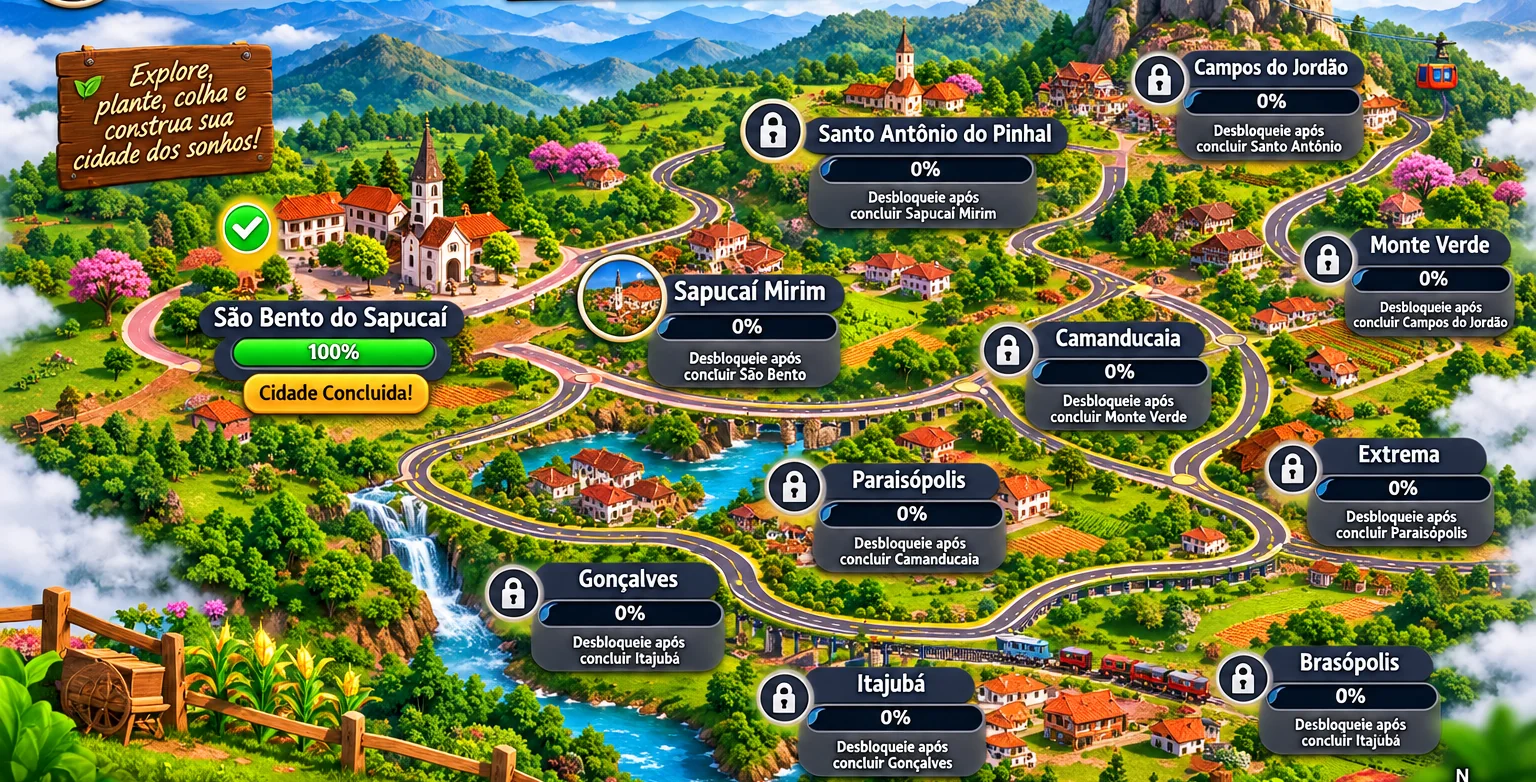
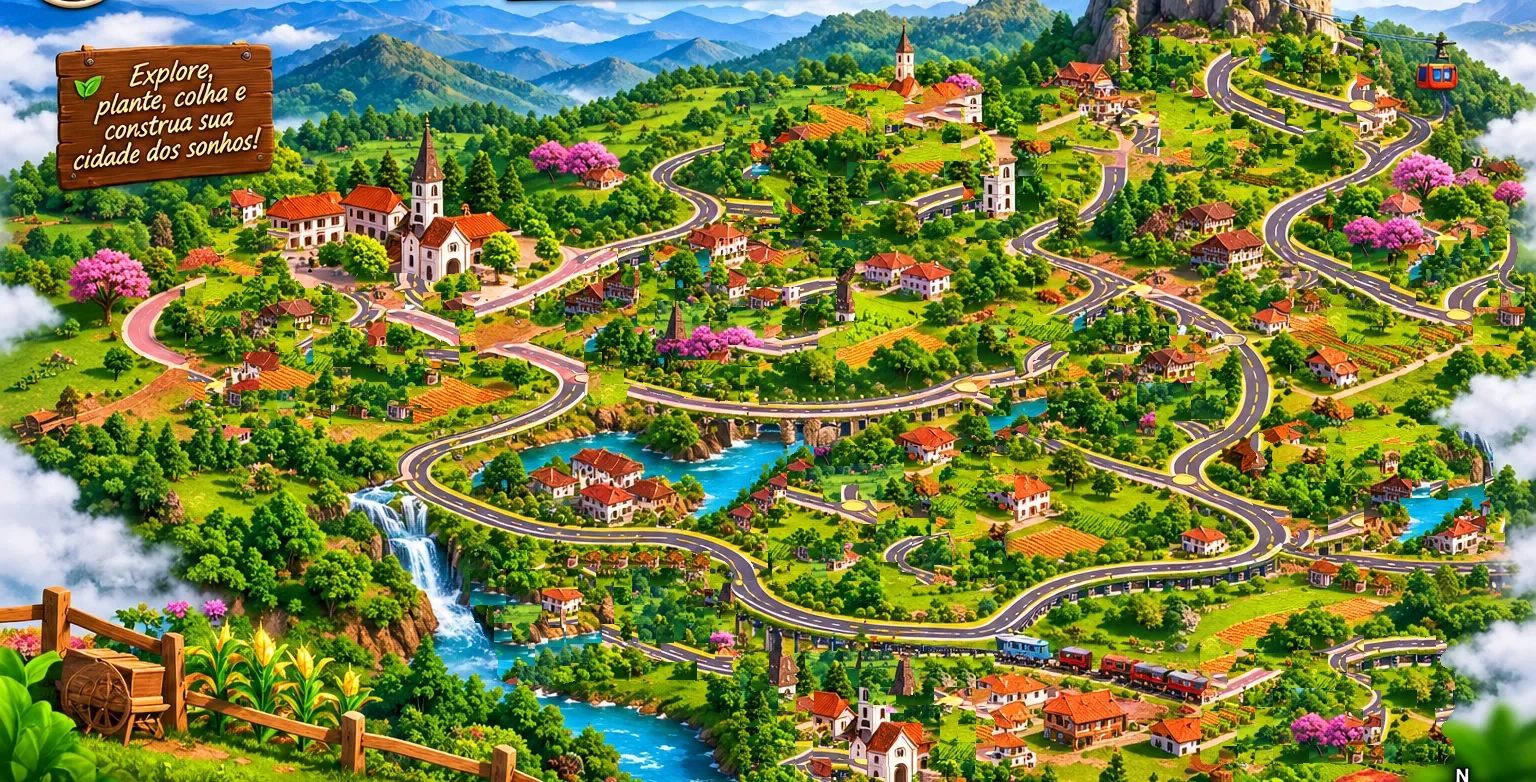
Mapa da Mantiqueira limpo, com etiquetas pequenas e navegação por cidade
- Nomes pintados na ilustração apagados (preenchidos com a paisagem ao redor)
- Etiquetas pequenas que ficam do mesmo tamanho na tela em qualquer zoom
- Afastado, as etiquetas que não cabem viram só o ícone
- Barra ‹ cidade › para ir de cidade em cidade, com o progresso
- Testes: 237 passando

Claude-Session: https://claude.ai/code/session_01JYLhbFcQ7EiGrrqUxPxF89

diff --git a/src/regional.js b/src/regional.js
@@ -1,19 +1,20 @@
 /* Conecta Fazenda — mapa regional da Serra da Mantiqueira.
-   A ilustração é só o fundo; as etiquetas das cidades (nome, %, barra, cadeado) são HTML por cima,
-   com o progresso real calculado do jogo. Arrastar com um dedo e pinça com dois dedos. */
+   A ilustração é só o fundo (sem textos pintados). Cada cidade tem uma etiqueta pequena em HTML
+   com o progresso real do jogo; ela fica sempre do mesmo tamanho na tela, em qualquer zoom.
+   Quando o mapa está afastado e as etiquetas não cabem, as de trás viram só o ícone.
+   Arrastar com um dedo, pinça com dois, e a barra de baixo vai de cidade em cidade. */
 import { REGIOES } from './data.js';
 
 const IMG_W = 1536, IMG_H = 782;
-/* centro de cada etiqueta na ilustração (cobre os textos que vieram pintados na arte de referência) */
-const BOX = { // caixa [x0, y0, x1, y1] de cada texto pintado na arte; a etiqueta cobre a caixa inteira
-  'sao-bento-do-sapucai': [192, 200, 468, 422], 'sapucai-mirim': [572, 254, 848, 398], 'santo-antonio-do-pinhal': [732, 92, 1073, 233],
-  'campos-do-jordao': [1127, 42, 1373, 163], 'monte-verde': [1297, 222, 1518, 338], 'camanducaia': [977, 312, 1218, 433], 'extrema': [1257, 432, 1498, 548],
-  'paraisopolis': [757, 452, 1008, 578], 'goncalves': [477, 557, 730, 678], 'itajuba': [747, 657, 988, 778], 'brasopolis': [1207, 642, 1448, 758],
+/* ponto de cada cidade na ilustração */
+const POS = {
+  'sao-bento-do-sapucai': [330, 300], 'sapucai-mirim': [710, 326], 'santo-antonio-do-pinhal': [902, 162],
+  'campos-do-jordao': [1250, 102], 'monte-verde': [1408, 280], 'camanducaia': [1097, 372], 'extrema': [1378, 490],
+  'paraisopolis': [882, 515], 'goncalves': [603, 617], 'itajuba': [867, 717], 'brasopolis': [1327, 700],
 };
-const POS = Object.fromEntries(Object.entries(BOX).map(([k, b]) => [k, [(b[0] + b[2]) / 2, (b[1] + b[3]) / 2]]));
 const CADEADO = '<svg viewBox="0 0 24 24"><rect x="5" y="10.5" width="14" height="10" rx="2.5" fill="#f6eddc"/><path d="M8 10.5V8a4 4 0 0 1 8 0v2.5" fill="none" stroke="#f6eddc" stroke-width="2.4"/><circle cx="12" cy="15.5" r="1.6" fill="#123552"/></svg>';
-const CHECK = '<svg viewBox="0 0 24 24"><circle cx="12" cy="12" r="11" fill="#20c957"/><path d="M7 12.5l3.2 3.2L17 9" fill="none" stroke="#fff" stroke-width="2.8" stroke-linecap="round" stroke-linejoin="round"/></svg>';
-const ROTULO = { bloqueada: 'Bloqueada', disponivel: 'Disponível', andamento: 'Em andamento', concluida: 'Concluída', 'em-breve': 'Em breve' };
+const CHECK = '<svg viewBox="0 0 24 24"><circle cx="12" cy="12" r="11" fill="#20c957" stroke="#fff" stroke-width="1.5"/><path d="M7 12.5l3.2 3.2L17 9" fill="none" stroke="#fff" stroke-width="2.8" stroke-linecap="round" stroke-linejoin="round"/></svg>';
+const ROTULO = { bloqueada: 'Bloqueada', disponivel: 'Disponível', andamento: 'Em andamento', concluida: 'Concluída', 'em-breve': 'Liberada · em breve' };
 
 export function criaRegional({ st, G, $, aoTocarCidade }) {
   const tela = $('regiao'), cena = $('rgCena'), wrap = $('rgWrap');
@@ -29,10 +30,35 @@ export function criaRegional({ st, G, $, aoTocarCidade }) {
     const w = IMG_W * T.k, h = IMG_H * T.k;  // menor que a tela: fica centralizado
     T.x = w <= L.W ? (L.W - w) / 2 : Math.min(0, Math.max(L.W - w, T.x));
     T.y = h <= L.H ? (L.H - h) / 2 : Math.min(0, Math.max(L.H - h, T.y));
-    $('rgIn').disabled = T.k >= L.max - 1e-6; $('rgOut').disabled = T.k <= L.min + 1e-6;
     wrap.style.transform = `translate(${T.x}px,${T.y}px) scale(${T.k})`;
+    wrap.style.setProperty('--inv', 1 / T.k);
+    $('rgIn').disabled = T.k >= L.max - 1e-6; $('rgOut').disabled = T.k <= L.min + 1e-6;
+    arruma();
   }
-  function centra(id) { const L = limites(), [px, py] = POS[id] || [IMG_W / 2, IMG_H / 2]; T.k = Math.max(L.min, Math.min(L.max, L.W < L.H ? L.W / 760 : L.cobre)); T.x = L.W / 2 - px * T.k; T.y = L.H / 2 - py * T.k; aplica(); }
+  /* etiquetas não ficam umas sobre as outras: na ordem da campanha, a que não cabe vira só o ícone */
+  function arruma() {
+    const els = [...wrap.querySelectorAll('.rgCity')]; if (!els.length) return;
+    const sel = st().regiaoSel, ordem = els.slice().sort((a, b) => (b.dataset.id === sel) - (a.dataset.id === sel));
+    const feitos = [], W = cena.clientWidth, H = cena.clientHeight;
+    const fora = r => r.l < 0 || r.t < 0 || r.r > W || r.b > H;
+    for (const e of ordem) {
+      const [px, py] = POS[e.dataset.id], cx = T.x + px * T.k, cy = T.y + py * T.k;
+      e.classList.remove('mini');
+      let r = caixa(e, cx, cy);
+      if (fora(r) || feitos.some(f => bate(f, r))) { e.classList.add('mini'); r = caixa(e, cx, cy); }
+      feitos.push(r);
+    }
+  }
+  const caixa = (e, cx, cy) => { const w = e.offsetWidth, h = e.offsetHeight; return { l: cx - w / 2 - 3, r: cx + w / 2 + 3, t: cy - h / 2 - 3, b: cy + h / 2 + 3 }; };
+  const bate = (a, b) => a.l < b.r && b.l < a.r && a.t < b.b && b.t < a.b;
+
+  function vaiPara(id, anima) {
+    /* em pé mostra um pedaço maior da região (a cidade e as vizinhas); deitado, cobre a tela */
+    const L = limites(), [px, py] = POS[id] || [IMG_W / 2, IMG_H / 2];
+    T.k = Math.max(L.min, Math.min(L.max, L.W < L.H ? L.W / 700 : L.cobre)); T.x = L.W / 2 - px * T.k; T.y = L.H / 2 - py * T.k;
+    if (anima && !matchMedia('(prefers-reduced-motion: reduce)').matches) { wrap.style.transition = 'transform .45s ease'; setTimeout(() => wrap.style.transition = '', 480); }
+    aplica();
+  }
   function zoom(f, cx, cy) { const L = limites(); cx = cx == null ? L.W / 2 : cx; cy = cy == null ? L.H / 2 : cy; const k = Math.min(L.max, Math.max(L.min, T.k * f)); const wx = (cx - T.x) / T.k, wy = (cy - T.y) / T.k; T.k = k; T.x = cx - wx * k; T.y = cy - wy * k; aplica(); }
 
   /* etiquetas */
@@ -40,13 +66,23 @@ export function criaRegional({ st, G, $, aoTocarCidade }) {
     const s = st();
     wrap.querySelectorAll('.rgCity').forEach(e => e.remove());
     for (const r of REGIOES) {
-      const e = G.estadoCidade(s, r.id), [x0, y0, x1, y1] = BOX[r.id];
-      const req = e.tipo === 'bloqueada' ? `Conclua ${e.requisito}` : e.tipo === 'em-breve' ? 'Área jogável em breve' : ROTULO[e.tipo];
+      const e = G.estadoCidade(s, r.id), [x, y] = POS[r.id];
       const ic = e.tipo === 'concluida' ? CHECK : e.tipo === 'bloqueada' ? `<i class="rgLock">${CADEADO}</i>` : `<i class="rgNum">${r.ordem}</i>`;
-      wrap.insertAdjacentHTML('beforeend', `<button class="rgCity rg-${e.tipo}${s.regiaoSel === r.id ? ' sel' : ''}" data-id="${r.id}" style="left:${x0}px;top:${y0}px;width:${x1 - x0}px;height:${y1 - y0}px"><span class="rgIc">${ic}</span><span class="rgTx"><b>${r.nome}</b><span class="rgBar"><i style="width:${e.pct}%"></i><em>${e.pct}%</em></span><small>${req}</small></span></button>`);
+      wrap.insertAdjacentHTML('beforeend', `<button class="rgCity rg-${e.tipo}${s.regiaoSel === r.id ? ' sel' : ''}" data-id="${r.id}" style="left:${x}px;top:${y}px" aria-label="${r.nome}: ${ROTULO[e.tipo]}, ${e.pct}%"><span class="rgIc">${ic}</span><span class="rgTx"><b>${r.nome}</b><span class="rgBar"><i><u style="width:${e.pct}%"></u></i><em>${e.pct}%</em></span></span></button>`);
     }
+    barra(); arruma();
   }
-  wrap.addEventListener('click', ev => { const b = ev.target.closest('.rgCity'); if (!b || moveu) return; st().regiaoSel = b.dataset.id; desenha(); aoTocarCidade(b.dataset.id); });
+  function barra() {
+    const s = st(), i = Math.max(0, REGIOES.findIndex(r => r.id === s.regiaoSel)), r = REGIOES[i], e = G.estadoCidade(s, r.id);
+    $('rgNome').querySelector('b').textContent = r.nome;
+    $('rgNome').querySelector('small').textContent = `${i + 1} de ${REGIOES.length} · ${e.tipo === 'bloqueada' ? 'Bloqueada' : ROTULO[e.tipo] + (e.pct && e.tipo !== 'concluida' ? ` · ${e.pct}%` : '')}`;
+    $('rgAnt').disabled = i === 0; $('rgProx').disabled = i === REGIOES.length - 1;
+  }
+  function seleciona(id, anima) { st().regiaoSel = id; wrap.querySelectorAll('.rgCity').forEach(e => e.classList.toggle('sel', e.dataset.id === id)); barra(); vaiPara(id, anima); }
+  const passo = d => { const i = Math.max(0, REGIOES.findIndex(r => r.id === st().regiaoSel)) + d; if (REGIOES[i]) seleciona(REGIOES[i].id, true); };
+  $('rgAnt').onclick = () => passo(-1); $('rgProx').onclick = () => passo(1);
+  $('rgNome').onclick = () => aoTocarCidade(st().regiaoSel || REGIOES[0].id);
+  wrap.addEventListener('click', ev => { const b = ev.target.closest('.rgCity'); if (!b || moveu) return; st().regiaoSel = b.dataset.id; wrap.querySelectorAll('.rgCity').forEach(e => e.classList.toggle('sel', e === b)); barra(); arruma(); aoTocarCidade(b.dataset.id); });
 
   /* gestos: um dedo arrasta, dois dedos fazem pinça em volta do ponto entre eles */
   const pos = e => { const r = cena.getBoundingClientRect(); return { x: e.clientX - r.left, y: e.clientY - r.top }; };
@@ -62,11 +98,11 @@ export function criaRegional({ st, G, $, aoTocarCidade }) {
   const solta = e => { ptr.delete(e.pointerId); if (ptr.size < 2) pinca = null; };
   cena.addEventListener('pointerup', solta); cena.addEventListener('pointercancel', solta);
   cena.addEventListener('wheel', e => { e.preventDefault(); const q = pos(e); zoom(Math.exp(-Math.max(-60, Math.min(60, e.deltaY)) * .0025), q.x, q.y); }, { passive: false });
-  $('rgIn').onclick = () => zoom(1.3); $('rgOut').onclick = () => zoom(1 / 1.3); $('rgCentro').onclick = () => centra(st().regiaoSel || 'sao-bento-do-sapucai');
+  $('rgIn').onclick = () => zoom(1.3); $('rgOut').onclick = () => zoom(1 / 1.3); $('rgCentro').onclick = () => vaiPara(st().regiaoSel || REGIOES[0].id, true);
   window.addEventListener('resize', () => { if (!tela.classList.contains('hidden')) aplica(); });
 
   return {
-    abrir() { tela.classList.remove('hidden'); desenha(); centra('sao-bento-do-sapucai'); },
+    abrir() { tela.classList.remove('hidden'); if (!st().regiaoSel) st().regiaoSel = REGIOES[0].id; desenha(); vaiPara(st().regiaoSel); },
     fechar() { tela.classList.add('hidden'); },
     atualiza() { if (!tela.classList.contains('hidden')) desenha(); },
     get T() { return T; }, POS,

diff --git a/style.css b/style.css
@@ -191,18 +191,29 @@ body.compacto #tut{bottom:calc(var(--sab) + 70px)}body.compacto .tutFoto{width:6
 .rgPlaca b{font-size:18px;color:#ffe8b8;text-shadow:0 2px 0 #4a2a0c}
 .rgPlaca small{font-size:9.5px;font-weight:900;letter-spacing:1.5px;color:#f6eddc}
 .rgZoom{position:absolute;right:calc(10px + var(--sar));bottom:calc(var(--sab) + 14px)}
-.rgCity{position:absolute;box-sizing:border-box;display:flex;align-items:center;gap:10px;padding:10px 14px;border-radius:18px;border:2px solid rgba(255,255,255,.35);background:#111b24;color:#f6eddc;text-align:left;box-shadow:0 6px 16px rgba(0,0,0,.45);cursor:pointer;overflow:hidden}
-.rgCity.sel{border-color:#ffd166;box-shadow:0 0 0 4px rgba(255,209,102,.45),0 6px 16px rgba(0,0,0,.45)}
-.rgIc{flex:none;width:48px;height:48px;display:grid;place-items:center}
-.rgIc svg{width:44px;height:44px}
-.rgLock{width:46px;height:46px;border-radius:50%;background:#123552;border:2px solid #f6eddc;display:grid;place-items:center}.rgLock svg{width:26px;height:26px}
-.rgNum{width:44px;height:44px;border-radius:50%;background:linear-gradient(#ffd166,#e3a35e);color:#4a2a0c;font-style:normal;font-weight:900;font-size:20px;display:grid;place-items:center;border:2px solid #fff}
-.rgTx{flex:1;min-width:0;display:flex;flex-direction:column;gap:5px}
-.rgTx b{font-size:22px;line-height:1.1}
-.rgBar{position:relative;height:18px;border-radius:9px;background:#0b1620;border:1.5px solid rgba(255,255,255,.25);overflow:hidden}
-.rgBar i{position:absolute;left:0;top:0;bottom:0;background:linear-gradient(#5ee87a,#20c957)}
-.rgBar em{position:absolute;inset:0;display:grid;place-items:center;font-style:normal;font-weight:900;font-size:12px;color:#fff;text-shadow:0 1px 2px #000}
-.rgTx small{font-size:15px;color:#d8cdb6;line-height:1.2}
+body.estreito:not(.toque) .rgZoom{bottom:calc(var(--sab) + 72px)}
+.rgCity{position:absolute;transform:translate(-50%,-50%) scale(var(--inv,1));transform-origin:50% 50%;display:flex;align-items:center;gap:7px;padding:4px 11px 4px 4px;border-radius:999px;border:1.5px solid rgba(255,255,255,.55);background:rgba(14,24,34,.86);color:#f6eddc;text-align:left;white-space:nowrap;box-shadow:0 3px 10px rgba(0,0,0,.4);cursor:pointer;-webkit-backdrop-filter:blur(3px);backdrop-filter:blur(3px)}
+.rgCity.mini{padding:3px;gap:0}.rgCity.mini .rgTx{display:none}
+.rgCity.sel{border-color:#ffd166;box-shadow:0 0 0 3px rgba(255,209,102,.55),0 3px 10px rgba(0,0,0,.4);z-index:2}
+.rgCity.rg-bloqueada{background:rgba(14,24,34,.74)}.rgCity.rg-bloqueada .rgTx b{color:#d8cdb6}
+.rgIc{flex:none;width:28px;height:28px;display:grid;place-items:center}
+.rgIc svg{width:28px;height:28px}
+.rgLock{width:28px;height:28px;border-radius:50%;background:#123552;border:1.5px solid #f6eddc;display:grid;place-items:center}.rgLock svg{width:16px;height:16px}
+.rgNum{width:28px;height:28px;border-radius:50%;background:linear-gradient(#ffd166,#e3a35e);color:#4a2a0c;font-style:normal;font-weight:900;font-size:14px;display:grid;place-items:center;border:1.5px solid #fff}
+.rgTx{display:flex;flex-direction:column;gap:3px}
+.rgTx b{font-size:13px;line-height:1.1}
+.rgBar{position:relative;display:flex;align-items:center;gap:6px}
+.rgBar i{position:relative;display:block;width:64px;height:5px;border-radius:3px;background:rgba(255,255,255,.18);overflow:hidden}
+.rgBar i u{position:absolute;left:0;top:0;bottom:0;background:linear-gradient(90deg,#5ee87a,#20c957)}
+.rgBar em{font-style:normal;font-weight:800;font-size:10.5px;color:#d8cdb6}
+.rgNav{position:absolute;left:50%;transform:translateX(-50%);bottom:calc(var(--sab) + 14px);display:flex;align-items:center;gap:6px;padding:5px;border-radius:999px;background:rgba(14,24,34,.86);border:1.5px solid rgba(255,255,255,.4);box-shadow:0 4px 14px rgba(0,0,0,.4);max-width:calc(100% - 96px)}
+.rgNav>button{border:0;background:none;color:#f6eddc;padding:0}
+#rgAnt,#rgProx{width:38px;height:38px;border-radius:50%;background:rgba(255,255,255,.12);display:grid;place-items:center;flex:none}
+#rgAnt svg,#rgProx svg{width:20px;height:20px;fill:none;stroke:#fff;stroke-width:3;stroke-linecap:round;stroke-linejoin:round}
+#rgAnt:disabled,#rgProx:disabled{opacity:.35}
+#rgNome{display:flex;flex-direction:column;align-items:center;min-width:0;padding:0 6px;cursor:pointer}
+#rgNome b{font-size:14px;white-space:nowrap;overflow:hidden;text-overflow:ellipsis;max-width:100%}
+#rgNome small{font-size:11px;color:#d8cdb6;white-space:nowrap}
 .rg-concluida{border-color:#20c957}.rg-concluida small{color:#7dffa4;font-weight:800}
 .rg-bloqueada b{color:#c9c1b0}
 .obj{display:flex;align-items:center;gap:8px;padding:8px 10px;border-radius:12px;background:#fffdf7;border:1.5px solid #ecdcb8;margin-bottom:6px;font-size:13.5px}

diff --git a/index.html b/index.html
@@ -74,6 +74,7 @@
   <div id="rgCena"><div id="rgWrap"><img src="assets/img/mapa_regional.webp" alt="Mapa ilustrado da Serra da Mantiqueira" draggable="false"></div></div>
   <div class="rgTopo"><button id="rgVoltar" class="rBtn" aria-label="Voltar à fazenda"><svg viewBox="0 0 24 24"><path d="M15 5l-7 7 7 7" fill="none" stroke="#fff" stroke-width="3" stroke-linecap="round" stroke-linejoin="round"/></svg></button>
     <div class="rgPlaca"><b>Conecta Fazenda</b><small>SERRA DA MANTIQUEIRA</small></div></div>
+  <div class="rgNav"><button id="rgAnt" aria-label="Cidade anterior"><svg viewBox="0 0 24 24"><path d="M15 5l-7 7 7 7"/></svg></button><button id="rgNome"><b>São Bento do Sapucaí</b><small>1 de 11 · Disponível</small></button><button id="rgProx" aria-label="Próxima cidade"><svg viewBox="0 0 24 24"><path d="M9 5l7 7-7 7"/></svg></button></div>
   <div class="zoomBox rgZoom"><button id="rgIn" aria-label="Aproximar"><svg viewBox="0 0 24 24"><path d="M12 5v14M5 12h14"/></svg></button><button id="rgOut" aria-label="Afastar"><svg viewBox="0 0 24 24"><path d="M5 12h14"/></svg></button><button id="rgCentro" aria-label="Centralizar"><svg viewBox="0 0 24 24"><circle cx="12" cy="12" r="3.2"/><path d="M12 2.5v4M12 17.5v4M2.5 12h4M17.5 12h4"/></svg></button></div>
 </div>
 

diff --git a/testes/teste_jogo.py b/testes/teste_jogo.py
@@ -385,8 +385,17 @@ def run_campanha():
         R = ev("[...document.querySelectorAll('.rgCity')].map(e=>[e.dataset.id,e.className])")
         check(f'{T} mapa mostra as 11 cidades', len(R) == 11, len(R))
         check(f'{T} São Bento disponível/em andamento, Sapucaí-Mirim bloqueada', ('rg-disponivel' in R[0][1] or 'rg-andamento' in R[0][1]) and 'rg-bloqueada' in dict(R)['sapucai-mirim'], R[:2])
-        R = ev("""(()=>{const a=[...document.querySelectorAll('.rgCity')].map(e=>e.getBoundingClientRect());let n=0;for(let i=0;i<a.length;i++)for(let j=i+1;j<a.length;j++){const p=a[i],q=a[j];if(p.left<q.right-2&&q.left<p.right-2&&p.top<q.bottom-2&&q.top<p.bottom-2)n++}return n})()""")
+        R = ev("""(()=>{const a=[...document.querySelectorAll('.rgCity:not(.mini)')].map(e=>e.getBoundingClientRect());let n=0;for(let i=0;i<a.length;i++)for(let j=i+1;j<a.length;j++){const p=a[i],q=a[j];if(p.left<q.right-2&&q.left<p.right-2&&p.top<q.bottom-2&&q.top<p.bottom-2)n++}return n})()""")
         check(f'{T} etiquetas das cidades não ficam umas sobre as outras', R == 0, R)
+        R = ev("(()=>{const e=document.querySelector('.rgCity');const r=e.getBoundingClientRect();return [r.width,r.height]})()")
+        check(f'{T} etiqueta pequena (não tampa a cidade)', R[0] < 200 and R[1] < 48, R)
+        w0 = ev("document.querySelector('.rgCity').getBoundingClientRect().height"); ev("document.getElementById('rgIn').click()"); w1 = ev("document.querySelector('.rgCity').getBoundingClientRect().height")
+        check(f'{T} etiqueta fica do mesmo tamanho ao aproximar', abs(w0 - w1) < 1, (w0, w1))
+        ev("document.getElementById('rgProx').click()"); pg.wait_for_timeout(550)
+        R = ev("[CF.st.regiaoSel, document.querySelector('#rgNome b').textContent, (()=>{const r=document.querySelector(\".rgCity[data-id='sapucai-mirim']\").getBoundingClientRect();return Math.abs(r.left+r.width/2-innerWidth/2)<4})()]")
+        check(f'{T} seta › vai para a próxima cidade e centraliza nela', R[0] == 'sapucai-mirim' and R[1] == 'Sapucaí-Mirim' and R[2], R)
+        ev("document.getElementById('rgAnt').click()"); pg.wait_for_timeout(550)
+        check(f'{T} seta ‹ volta para São Bento', ev("CF.st.regiaoSel") == 'sao-bento-do-sapucai' and ev("document.getElementById('rgAnt').disabled"))
         k0 = ev("CF.rg.T.k"); ev("document.getElementById('rgIn').click()"); pg.wait_for_timeout(100)
         check(f'{T} botão + aproxima o mapa regional', ev("CF.rg.T.k") > k0)
         for _ in range(12): ev("document.getElementById('rgOut').click()")
